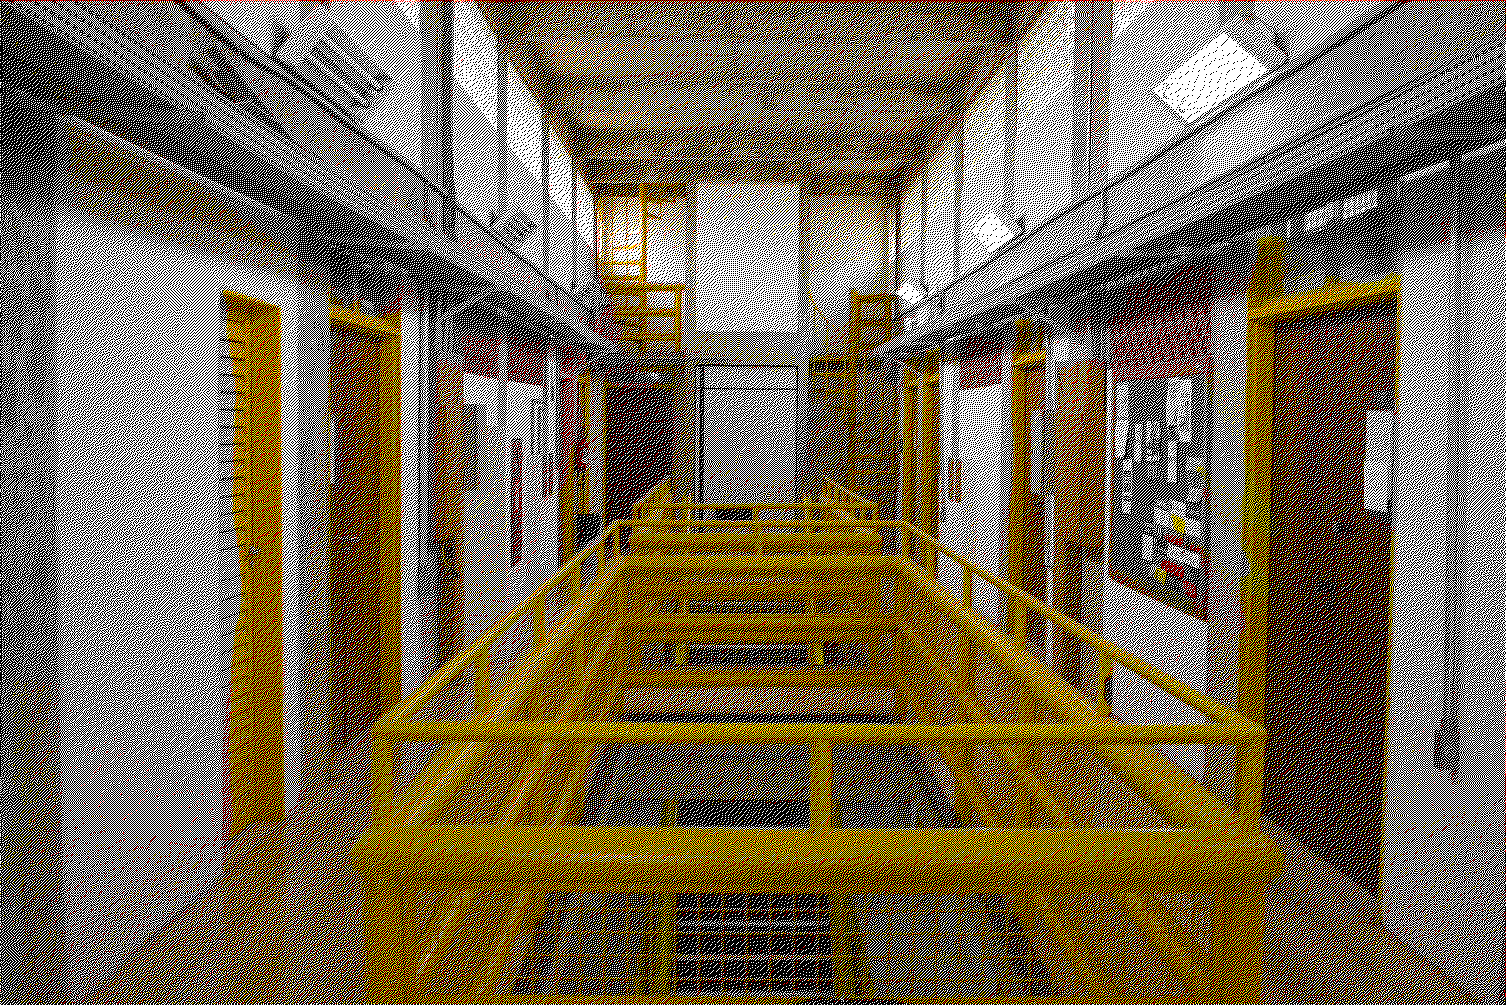
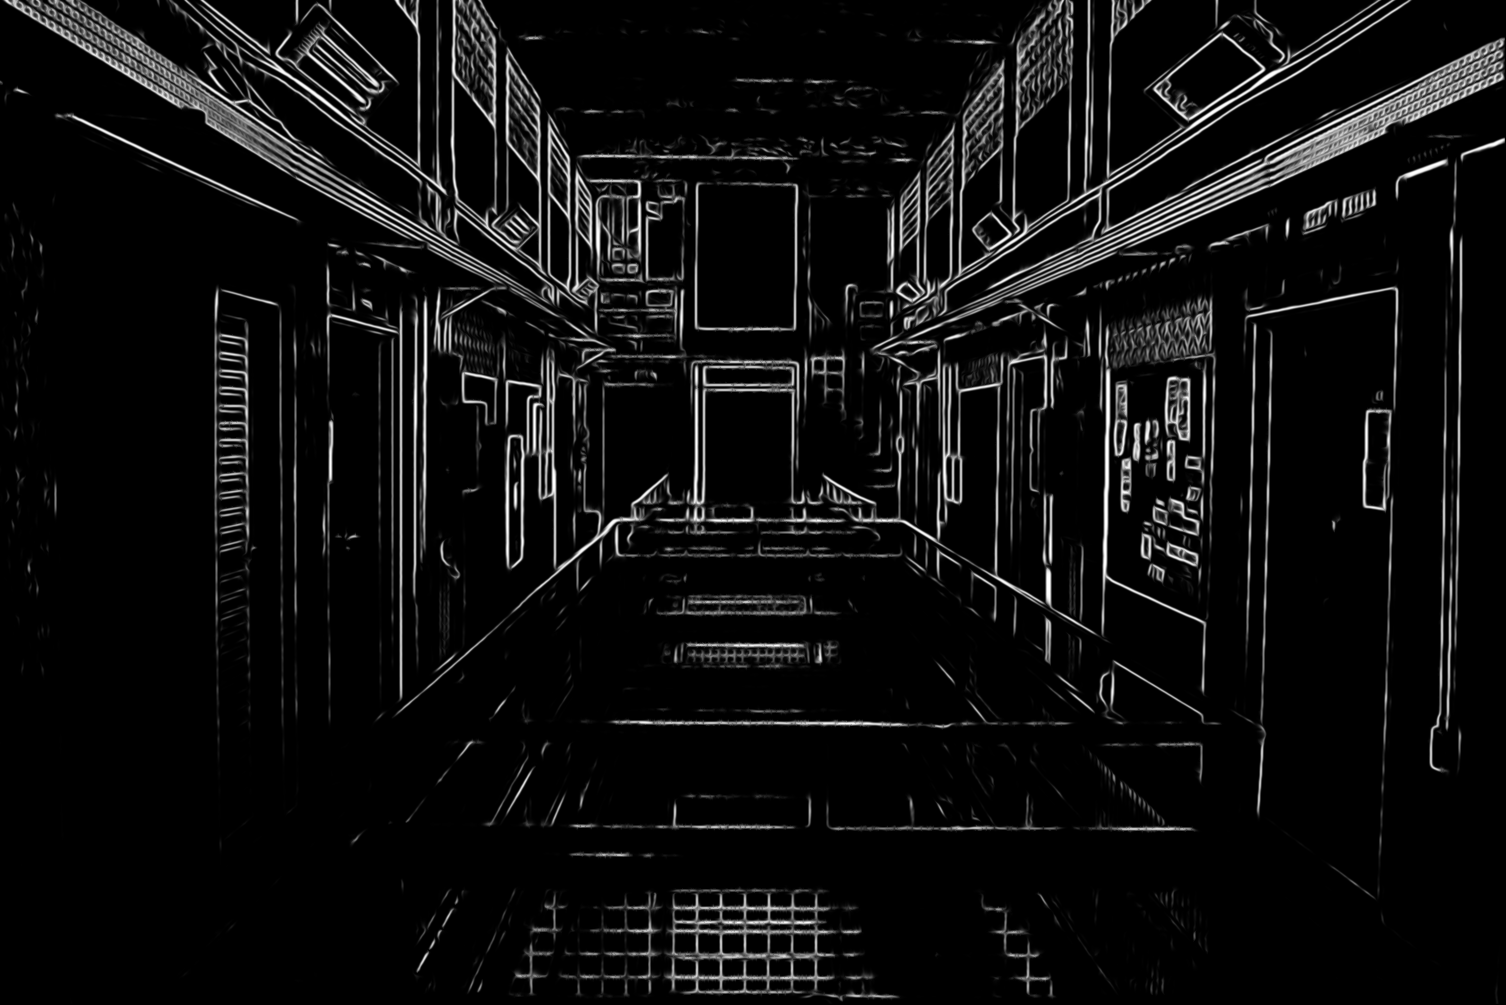
Resolte pytest

diff --git a/src/unicamp_effects/effects/260382.py b/src/unicamp_effects/effects/260382.py
@@ -26,7 +26,7 @@ def dithering_red_yellow_black_white(img: np.ndarray) -> np.ndarray:
 
 @register(prefix="260382")
 def edge_detection(img: np.ndarray) -> np.ndarray:
-    return difference_of_gaussians(img, 1.2, 0.8, 3.2, 1.2, 1000, 0.083, 20.0, )
+    return difference_of_gaussians(img, 1.2, 0.8, 3.2, 1.2, 1000, 0.8, 0.95, )
 
 @register(prefix="260382")
 def difference_of_gaussians_flow(img: np.ndarray) -> np.ndarray:
@@ -35,6 +35,11 @@ def difference_of_gaussians_flow(img: np.ndarray) -> np.ndarray:
 @register(prefix="260382")
 def difference_of_gaussians_flow_less(img: np.ndarray) -> np.ndarray:
     return difference_of_gaussians(img, 1.0, 0.8, 3.2, 0.75, 120, 1.83, 0.9, )
+
+
+@register(prefix="260382")
+def diference_of_gaussians_flow_color(img: np.ndarray) -> np.ndarray:
+
 
 
 

diff --git a/src/unicamp_effects/effects/imports/colorspaces.py b/src/unicamp_effects/effects/imports/colorspaces.py
@@ -52,10 +52,11 @@ def rgb_to_oklab(rgb):
 
 def linear_to_srgb(rgb):
     rgb = np.asarray(rgb)
+    rgb_safe = np.clip(rgb, 0.0, None)
     return np.where(
         rgb <= 0.0031308,
         12.92 * rgb,
-        1.055 * (rgb ** (1/2.4)) - 0.055
+        1.055 * (rgb_safe ** (1/2.4)) - 0.055
     )
 
 def oklab_to_rgb(lab):
